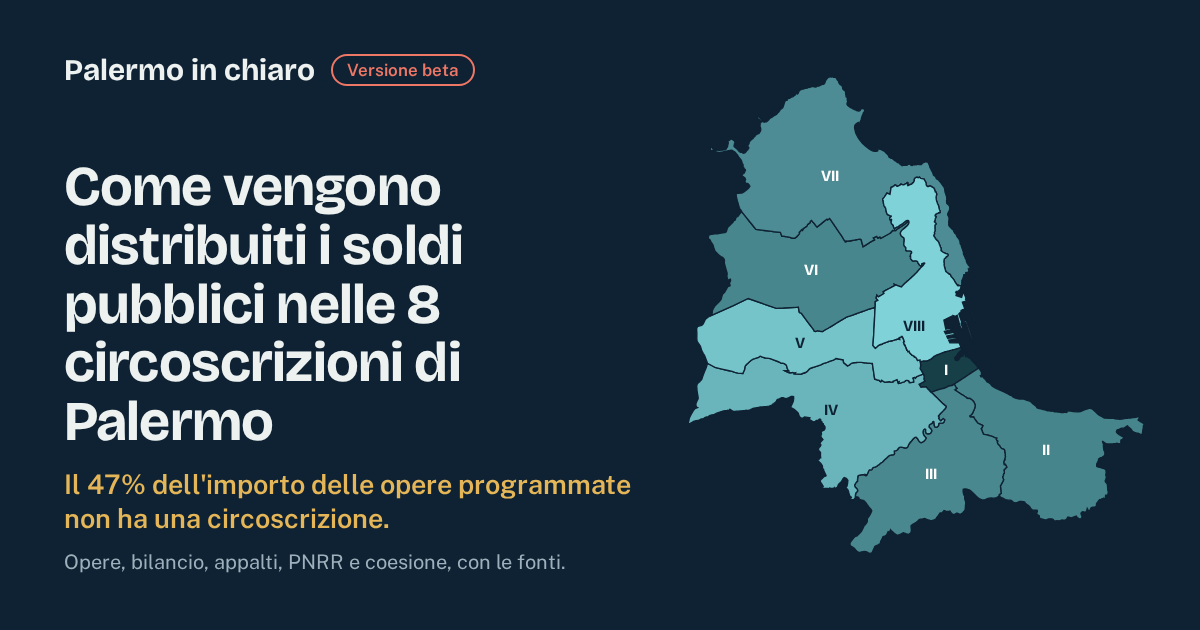
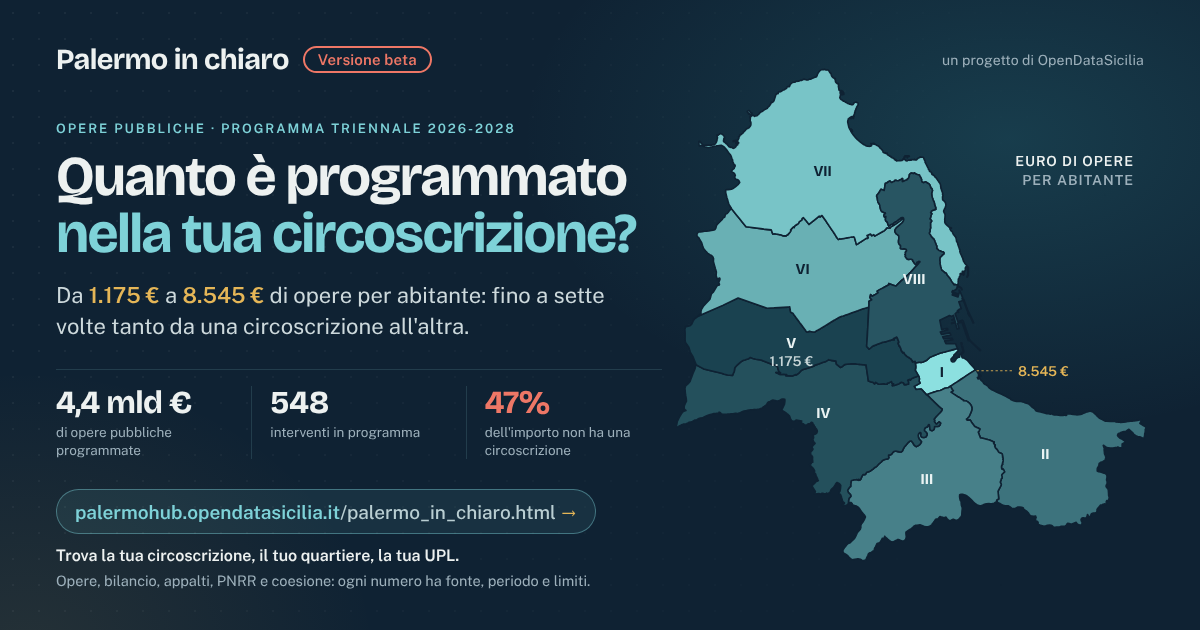
Rifà la card social: una domanda, tre numeri e la mappa per abitante
La card di prima diceva cosa contiene il sito ma non dava un motivo per aprirlo:
il titolo era una descrizione e l'unico dato, il 47%, era un limite. Ora apre con
una domanda — «Quanto è programmato nella tua circoscrizione?» — e con il
confronto che fa venire voglia di guardare: da 1.175 € a 8.545 € di opere per
abitante, fino a sette volte tanto da una circoscrizione all'altra.

La mappa non è più colorata per residenti ma per euro di opere per abitante, con
le due estremità annotate sulla mappa (V e I) e il contorno ocra sulla cifra più
alta. Sotto la domanda tre cifre del triennio 2026-2028: 4,4 mld € di opere,
548 interventi, 47% dell'importo senza circoscrizione. In fondo l'indirizzo
palermohub.opendatasicilia.it/palermo_in_chiaro.html e l'invito a cercare la
propria circoscrizione, il quartiere e la UPL.

I numeri restano calcolati dagli snapshot in data/snapshot/, non scritti a mano:
scripts/social_card.html (non pubblicato) li legge e ne fa una schermata
1200x630. Aggiorna anche il testo alternativo della card nelle pagine.

diff --git a/index.html b/index.html
@@ -19,12 +19,12 @@
 <meta property="og:image:type" content="image/png">
 <meta property="og:image:width" content="1200">
 <meta property="og:image:height" content="630">
-<meta property="og:image:alt" content="Mappa delle 8 circoscrizioni di Palermo con il titolo «Come vengono distribuiti i soldi pubblici nelle 8 circoscrizioni di Palermo» e il dato: il 47% dell'importo delle opere programmate non ha una circoscrizione.">
+<meta property="og:image:alt" content="Mappa delle 8 circoscrizioni di Palermo colorata per euro di opere pubbliche per abitante, con il titolo «Quanto è programmato nella tua circoscrizione?», le cifre 4,4 mld € di opere nel triennio 2026-2028, 548 interventi e il 47% dell'importo senza circoscrizione, e l'indirizzo palermohub.opendatasicilia.it/palermo_in_chiaro.html">
 <meta name="twitter:card" content="summary_large_image">
 <meta name="twitter:title" content="Palermo in chiaro: come vengono distribuiti i soldi pubblici nelle 8 circoscrizioni">
 <meta name="twitter:description" content="Residenti, opere programmate, bilancio, appalti, PNRR e fondi di coesione del Comune di Palermo, con il dato per circoscrizione dove esiste. Ogni numero ha fonte e limiti.">
 <meta name="twitter:image" content="https://palermohub.github.io/palermo_in_chiaro/img/social-card.png">
-<meta name="twitter:image:alt" content="Mappa delle 8 circoscrizioni di Palermo con il titolo «Come vengono distribuiti i soldi pubblici nelle 8 circoscrizioni di Palermo» e il dato: il 47% dell'importo delle opere programmate non ha una circoscrizione.">
+<meta name="twitter:image:alt" content="Mappa delle 8 circoscrizioni di Palermo colorata per euro di opere pubbliche per abitante, con il titolo «Quanto è programmato nella tua circoscrizione?», le cifre 4,4 mld € di opere nel triennio 2026-2028, 548 interventi e il 47% dell'importo senza circoscrizione, e l'indirizzo palermohub.opendatasicilia.it/palermo_in_chiaro.html">
 
 <link rel="icon" href="img/favicon.png">
 <script src="js/consenso.js?v=20261116z"></script>

diff --git a/guida.html b/guida.html
@@ -18,12 +18,12 @@
 <meta property="og:image:type" content="image/png">
 <meta property="og:image:width" content="1200">
 <meta property="og:image:height" content="630">
-<meta property="og:image:alt" content="Mappa delle 8 circoscrizioni di Palermo con il titolo «Come vengono distribuiti i soldi pubblici nelle 8 circoscrizioni di Palermo» e il dato: il 47% dell'importo delle opere programmate non ha una circoscrizione.">
+<meta property="og:image:alt" content="Mappa delle 8 circoscrizioni di Palermo colorata per euro di opere pubbliche per abitante, con il titolo «Quanto è programmato nella tua circoscrizione?», le cifre 4,4 mld € di opere nel triennio 2026-2028, 548 interventi e il 47% dell'importo senza circoscrizione, e l'indirizzo palermohub.opendatasicilia.it/palermo_in_chiaro.html">
 <meta name="twitter:card" content="summary_large_image">
 <meta name="twitter:title" content="Guida · Palermo in chiaro">
 <meta name="twitter:description" content="Come si usa Palermo in chiaro, passo per passo: la mappa delle circoscrizioni, come si leggono i numeri, come si cercano progetti, finanziamenti e appalti.">
 <meta name="twitter:image" content="https://palermohub.github.io/palermo_in_chiaro/img/social-card.png">
-<meta name="twitter:image:alt" content="Mappa delle 8 circoscrizioni di Palermo con il titolo «Come vengono distribuiti i soldi pubblici nelle 8 circoscrizioni di Palermo» e il dato: il 47% dell'importo delle opere programmate non ha una circoscrizione.">
+<meta name="twitter:image:alt" content="Mappa delle 8 circoscrizioni di Palermo colorata per euro di opere pubbliche per abitante, con il titolo «Quanto è programmato nella tua circoscrizione?», le cifre 4,4 mld € di opere nel triennio 2026-2028, 548 interventi e il 47% dell'importo senza circoscrizione, e l'indirizzo palermohub.opendatasicilia.it/palermo_in_chiaro.html">
 <link rel="icon" href="img/favicon.png">
 <script src="js/consenso.js?v=20261116z"></script>
 <link rel="preconnect" href="https://fonts.googleapis.com">

diff --git a/metodo.html b/metodo.html
@@ -18,12 +18,12 @@
 <meta property="og:image:type" content="image/png">
 <meta property="og:image:width" content="1200">
 <meta property="og:image:height" content="630">
-<meta property="og:image:alt" content="Mappa delle 8 circoscrizioni di Palermo con il titolo «Come vengono distribuiti i soldi pubblici nelle 8 circoscrizioni di Palermo» e il dato: il 47% dell'importo delle opere programmate non ha una circoscrizione.">
+<meta property="og:image:alt" content="Mappa delle 8 circoscrizioni di Palermo colorata per euro di opere pubbliche per abitante, con il titolo «Quanto è programmato nella tua circoscrizione?», le cifre 4,4 mld € di opere nel triennio 2026-2028, 548 interventi e il 47% dell'importo senza circoscrizione, e l'indirizzo palermohub.opendatasicilia.it/palermo_in_chiaro.html">
 <meta name="twitter:card" content="summary_large_image">
 <meta name="twitter:title" content="Metodo e licenze · Palermo in chiaro">
 <meta name="twitter:description" content="Come sono costruiti i numeri di Palermo in chiaro, cosa non misurano, da dove vengono e con quale licenza.">
 <meta name="twitter:image" content="https://palermohub.github.io/palermo_in_chiaro/img/social-card.png">
-<meta name="twitter:image:alt" content="Mappa delle 8 circoscrizioni di Palermo con il titolo «Come vengono distribuiti i soldi pubblici nelle 8 circoscrizioni di Palermo» e il dato: il 47% dell'importo delle opere programmate non ha una circoscrizione.">
+<meta name="twitter:image:alt" content="Mappa delle 8 circoscrizioni di Palermo colorata per euro di opere pubbliche per abitante, con il titolo «Quanto è programmato nella tua circoscrizione?», le cifre 4,4 mld € di opere nel triennio 2026-2028, 548 interventi e il 47% dell'importo senza circoscrizione, e l'indirizzo palermohub.opendatasicilia.it/palermo_in_chiaro.html">
 <link rel="icon" href="img/favicon.png">
 <script src="js/consenso.js?v=20261116z"></script>
 <link rel="preconnect" href="https://fonts.googleapis.com">

diff --git a/circoscrizione/4/index.html b/circoscrizione/4/index.html
@@ -18,7 +18,7 @@
 <meta property="og:image:type" content="image/png">
 <meta property="og:image:width" content="1200">
 <meta property="og:image:height" content="630">
-<meta property="og:image:alt" content="Mappa delle 8 circoscrizioni di Palermo con il titolo «Come vengono distribuiti i soldi pubblici nelle 8 circoscrizioni di Palermo»">
+<meta property="og:image:alt" content="Mappa delle 8 circoscrizioni di Palermo colorata per euro di opere pubbliche per abitante, con il titolo «Quanto è programmato nella tua circoscrizione?»">
 <meta name="twitter:card" content="summary_large_image">
 <meta name="twitter:title" content="Circoscrizione IV · Palermo in chiaro">
 <meta name="twitter:description" content="Opere programmate 2026-2028, quartieri, progetti e finanziamenti della Circoscrizione IV di Palermo (Altarello, Boccadifalco, Cuba-Calatafimi, Mezzomonreale -Villa Tasca, S. Rosalia - Montegrappa), con il confronto con le altre sette. Ogni numero porta la fonte e quello che non misura.">

diff --git a/circoscrizione/7/index.html b/circoscrizione/7/index.html
@@ -18,7 +18,7 @@
 <meta property="og:image:type" content="image/png">
 <meta property="og:image:width" content="1200">
 <meta property="og:image:height" content="630">
-<meta property="og:image:alt" content="Mappa delle 8 circoscrizioni di Palermo con il titolo «Come vengono distribuiti i soldi pubblici nelle 8 circoscrizioni di Palermo»">
+<meta property="og:image:alt" content="Mappa delle 8 circoscrizioni di Palermo colorata per euro di opere pubbliche per abitante, con il titolo «Quanto è programmato nella tua circoscrizione?»">
 <meta name="twitter:card" content="summary_large_image">
 <meta name="twitter:title" content="Circoscrizione VII · Palermo in chiaro">
 <meta name="twitter:description" content="Opere programmate 2026-2028, quartieri, progetti e finanziamenti della Circoscrizione VII di Palermo (Arenella - Vergine Maria, Pallavicino, Partanna Mondello, Tommaso Natale - Sferracavallo), con il confronto con le altre sette. Ogni numero porta la fonte e quello che non misura.">

diff --git a/circoscrizione/8/index.html b/circoscrizione/8/index.html
@@ -18,7 +18,7 @@
 <meta property="og:image:type" content="image/png">
 <meta property="og:image:width" content="1200">
 <meta property="og:image:height" content="630">
-<meta property="og:image:alt" content="Mappa delle 8 circoscrizioni di Palermo con il titolo «Come vengono distribuiti i soldi pubblici nelle 8 circoscrizioni di Palermo»">
+<meta property="og:image:alt" content="Mappa delle 8 circoscrizioni di Palermo colorata per euro di opere pubbliche per abitante, con il titolo «Quanto è programmato nella tua circoscrizione?»">
 <meta name="twitter:card" content="summary_large_image">
 <meta name="twitter:title" content="Circoscrizione VIII · Palermo in chiaro">
 <meta name="twitter:description" content="Opere programmate 2026-2028, quartieri, progetti e finanziamenti della Circoscrizione VIII di Palermo (Libertà, Malaspina -Palagonia, Montepellegrino, Politeama), con il confronto con le altre sette. Ogni numero porta la fonte e quello che non misura.">

diff --git a/circoscrizione/1/index.html b/circoscrizione/1/index.html
@@ -18,7 +18,7 @@
 <meta property="og:image:type" content="image/png">
 <meta property="og:image:width" content="1200">
 <meta property="og:image:height" content="630">
-<meta property="og:image:alt" content="Mappa delle 8 circoscrizioni di Palermo con il titolo «Come vengono distribuiti i soldi pubblici nelle 8 circoscrizioni di Palermo»">
+<meta property="og:image:alt" content="Mappa delle 8 circoscrizioni di Palermo colorata per euro di opere pubbliche per abitante, con il titolo «Quanto è programmato nella tua circoscrizione?»">
 <meta name="twitter:card" content="summary_large_image">
 <meta name="twitter:title" content="Circoscrizione I · Palermo in chiaro">
 <meta name="twitter:description" content="Opere programmate 2026-2028, quartieri, progetti e finanziamenti della Circoscrizione I di Palermo (Palazzo Reale - Monte di Pietà, Tribunali-Castellammare), con il confronto con le altre sette. Ogni numero porta la fonte e quello che non misura.">

diff --git a/circoscrizione/6/index.html b/circoscrizione/6/index.html
@@ -18,7 +18,7 @@
 <meta property="og:image:type" content="image/png">
 <meta property="og:image:width" content="1200">
 <meta property="og:image:height" content="630">
-<meta property="og:image:alt" content="Mappa delle 8 circoscrizioni di Palermo con il titolo «Come vengono distribuiti i soldi pubblici nelle 8 circoscrizioni di Palermo»">
+<meta property="og:image:alt" content="Mappa delle 8 circoscrizioni di Palermo colorata per euro di opere pubbliche per abitante, con il titolo «Quanto è programmato nella tua circoscrizione?»">
 <meta name="twitter:card" content="summary_large_image">
 <meta name="twitter:title" content="Circoscrizione VI · Palermo in chiaro">
 <meta name="twitter:description" content="Opere programmate 2026-2028, quartieri, progetti e finanziamenti della Circoscrizione VI di Palermo (Cruillas - S.Giovanni Apostolo, Resuttana - S.Lorenzo), con il confronto con le altre sette. Ogni numero porta la fonte e quello che non misura.">

diff --git a/circoscrizione/2/index.html b/circoscrizione/2/index.html
@@ -18,7 +18,7 @@
 <meta property="og:image:type" content="image/png">
 <meta property="og:image:width" content="1200">
 <meta property="og:image:height" content="630">
-<meta property="og:image:alt" content="Mappa delle 8 circoscrizioni di Palermo con il titolo «Come vengono distribuiti i soldi pubblici nelle 8 circoscrizioni di Palermo»">
+<meta property="og:image:alt" content="Mappa delle 8 circoscrizioni di Palermo colorata per euro di opere pubbliche per abitante, con il titolo «Quanto è programmato nella tua circoscrizione?»">
 <meta name="twitter:card" content="summary_large_image">
 <meta name="twitter:title" content="Circoscrizione II · Palermo in chiaro">
 <meta name="twitter:description" content="Opere programmate 2026-2028, quartieri, progetti e finanziamenti della Circoscrizione II di Palermo (Brancaccio-Ciaculli, Oreto- Stazione, Settecannoli), con il confronto con le altre sette. Ogni numero porta la fonte e quello che non misura.">

diff --git a/circoscrizione/5/index.html b/circoscrizione/5/index.html
@@ -18,7 +18,7 @@
 <meta property="og:image:type" content="image/png">
 <meta property="og:image:width" content="1200">
 <meta property="og:image:height" content="630">
-<meta property="og:image:alt" content="Mappa delle 8 circoscrizioni di Palermo con il titolo «Come vengono distribuiti i soldi pubblici nelle 8 circoscrizioni di Palermo»">
+<meta property="og:image:alt" content="Mappa delle 8 circoscrizioni di Palermo colorata per euro di opere pubbliche per abitante, con il titolo «Quanto è programmato nella tua circoscrizione?»">
 <meta name="twitter:card" content="summary_large_image">
 <meta name="twitter:title" content="Circoscrizione V · Palermo in chiaro">
 <meta name="twitter:description" content="Opere programmate 2026-2028, quartieri, progetti e finanziamenti della Circoscrizione V di Palermo (Borgo Nuovo, Noce, Uditore-Passo Di Rigano, Zisa), con il confronto con le altre sette. Ogni numero porta la fonte e quello che non misura.">

diff --git a/circoscrizione/3/index.html b/circoscrizione/3/index.html
@@ -18,7 +18,7 @@
 <meta property="og:image:type" content="image/png">
 <meta property="og:image:width" content="1200">
 <meta property="og:image:height" content="630">
-<meta property="og:image:alt" content="Mappa delle 8 circoscrizioni di Palermo con il titolo «Come vengono distribuiti i soldi pubblici nelle 8 circoscrizioni di Palermo»">
+<meta property="og:image:alt" content="Mappa delle 8 circoscrizioni di Palermo colorata per euro di opere pubbliche per abitante, con il titolo «Quanto è programmato nella tua circoscrizione?»">
 <meta name="twitter:card" content="summary_large_image">
 <meta name="twitter:title" content="Circoscrizione III · Palermo in chiaro">
 <meta name="twitter:description" content="Opere programmate 2026-2028, quartieri, progetti e finanziamenti della Circoscrizione III di Palermo (Oreto- Stazione, Villagrazia-Falsomiele), con il confronto con le altre sette. Ogni numero porta la fonte e quello che non misura.">
